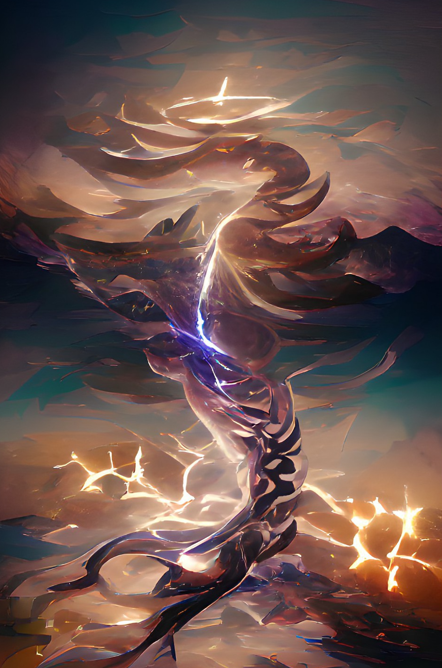
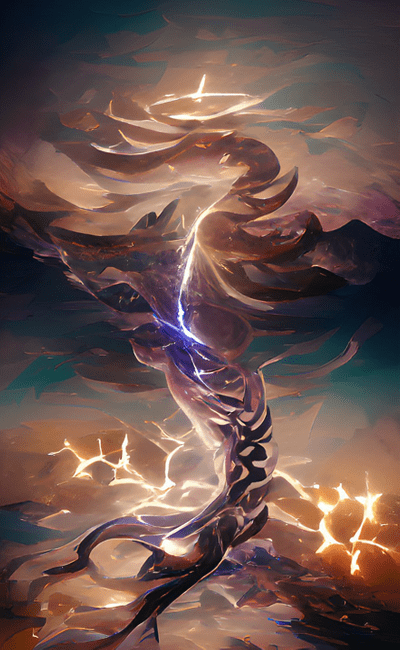
added full art cards, fixed image sizes. All card art should be sized at 400x650 going forward.

diff --git a/Assets/Scripts/UICard.cs b/Assets/Scripts/UICard.cs
@@ -1,5 +1,6 @@
 using System.Collections;
 using System.Collections.Generic;
+using System.Linq;
 using TMPro;
 using UnityEngine;
 
@@ -23,7 +24,27 @@ public class UICard : UIGameEntity
     private SpriteRenderer _highlight;
 
     [SerializeField]
+    private SpriteRenderer _cardFrame;
+
+    //Card Frame Colors
+    [SerializeField]
+    private Sprite colorlessCardFrame;
+    [SerializeField]
+    private Sprite whiteCardFrame;
+    [SerializeField]
+    private Sprite blueCardFrame;
+    [SerializeField]
+    private Sprite greenCardFrame;
+    [SerializeField]
+    private Sprite redCardFrame;
+    [SerializeField]
+    private Sprite blackCardFrame;
+    [SerializeField]
+    private Sprite multiColorCardFrame;
+
+    [SerializeField]
     private CardInstance _cardInstance;
+
     #region Public Properties
     public SpriteRenderer CardArtRenderer { get => _cardArtRenderer; set => _cardArtRenderer = value; }
 
@@ -63,6 +84,46 @@ public class UICard : UIGameEntity
         }
         Sprite art = Resources.Load<Sprite>(cardData.ArtPath);
         _cardArtRenderer.sprite = art;
+
+        SetCardFrame();
+    }
+
+    private void SetCardFrame()
+    {
+        if (_cardInstance == null)
+        {
+            _cardFrame.sprite = colorlessCardFrame;
+            return;
+        }
+        if (_cardInstance.Colors == null || !_cardInstance.Colors.Any())
+        {
+            //default to colorless frame;
+            _cardFrame.sprite = colorlessCardFrame;
+            return;
+        }
+
+        if (_cardInstance.Colors.Count > 1)
+        {
+            //Do a multicolor frame.
+            _cardFrame.sprite = multiColorCardFrame;
+        }
+        else
+        {
+            var color = _cardInstance.Colors.First();
+
+            //Do a single color frame.
+            switch (color)
+            {
+                case CardColor.White: _cardFrame.sprite = whiteCardFrame; break;
+                case CardColor.Blue: _cardFrame.sprite = blueCardFrame; break;
+                case CardColor.Green: _cardFrame.sprite = greenCardFrame; break;
+                case CardColor.Red: _cardFrame.sprite = redCardFrame; break;
+                case CardColor.Black: _cardFrame.sprite = blackCardFrame; break;
+                case CardColor.Colorless: _cardFrame.sprite = colorlessCardFrame; break;
+                default: _cardFrame.sprite = colorlessCardFrame;break;
+            }
+            
+        }
     }
 
     public override void Highlight()

diff --git a/Assets/Core/CardData.cs b/Assets/Core/CardData.cs
@@ -51,6 +51,7 @@ public class UnitCardData : BaseCardData
             ArtPath = ArtPath,
             Power = Power,
             Toughness = Toughness,
+            Colors = Colors,
             Abilities = Abilities.ToList() //todo - potential deep clone.
         };
     }
@@ -84,6 +85,7 @@ public class SpellCardData : BaseCardData
             Name = Name,
             ManaCost = ManaCost,
             ArtPath = ArtPath,
+            Colors = Colors,
             Abilities = Abilities.ToList(), //todo - potential deep clone.
             Effects = Effects.ToList()
         };

diff --git a/Assets/Core/CardInstance.cs b/Assets/Core/CardInstance.cs
@@ -18,6 +18,7 @@ public class CardInstance : CardGameEntity
     public int OwnerId { get => _ownerId; set => _ownerId = value; }
     public override string Name { get => _currentCardData.Name; set => _currentCardData.Name = value; }
     public string RulesText { get => _currentCardData.RulesText; set => _currentCardData.Name = value; }
+    public List<CardColor> Colors { get => _currentCardData.Colors;}
 
     public int ConvertedManaCost
     {

diff --git a/Assets/Core/CardGame.cs b/Assets/Core/CardGame.cs
@@ -341,7 +341,7 @@ public class CardGame
     void AddRandomCardsToDeck()
     {
         var cardDB = new CardDatabase();
-        var cards = cardDB.GetAll().Where(card => new List<string> { "Grizzly Bear", "Lightning Bolt" }.Contains(card.Name)).ToList();
+        var cards = cardDB.GetAll().ToList();
 
         for (int i = 0; i < 60; i++)
         {
